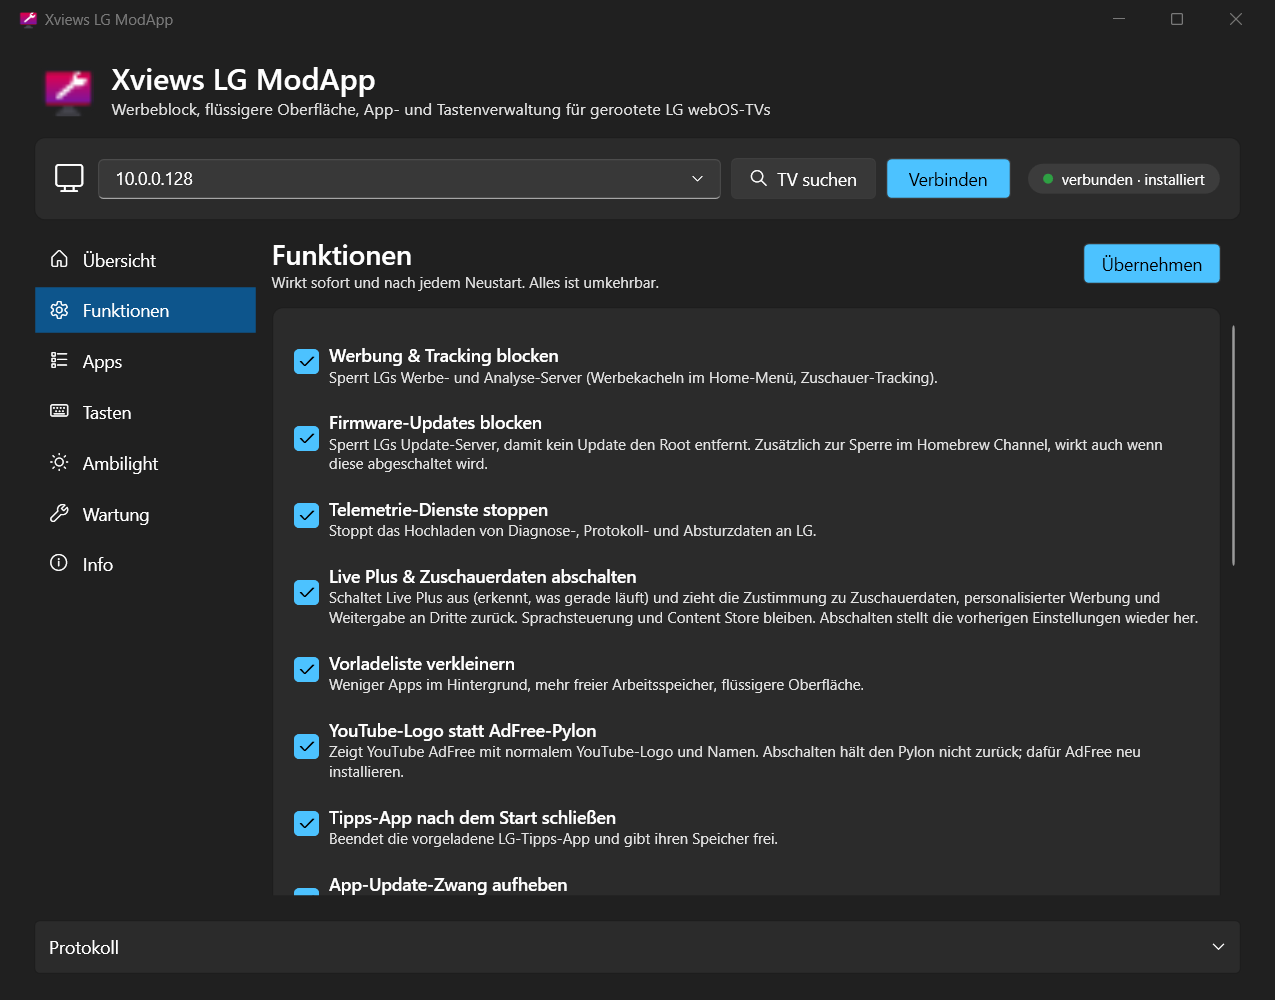
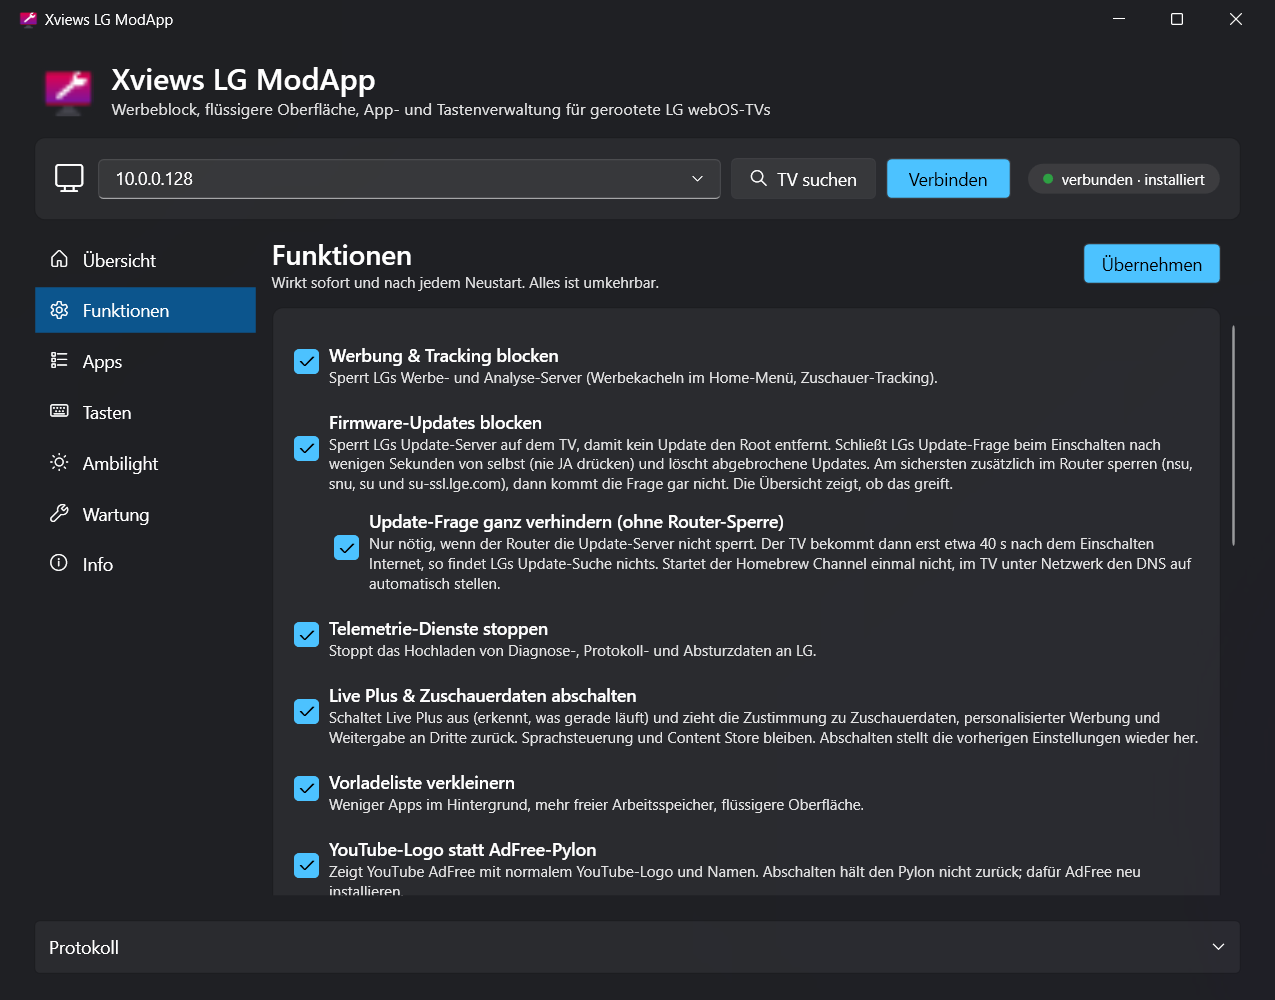
README: Stand 1.4.0 (Update-Frage schließen oder verhindern, DNS zurücksetzen, WLED optimal einstellen)

Changed region(s): [[0.2141, 0.403, 0.9176, 0.899], [0.0306, 0.0, 0.1224, 0.031], [0.5812, 0.806, 0.6118, 0.837]]

diff --git a/README.md b/README.md
@@ -49,7 +49,8 @@ Werbekacheln im Home-Menü, Firmware-Updates, die den Root wieder entfernen, ein
 
 **Schutz & Datenschutz**
 - 🚫 **Werbung & Tracking blocken:** sperrt LGs Werbe- und Analyse-Server, eigene Domains lassen sich ergänzen. Content Store und Apps funktionieren weiter.
-- 🛡 **Firmware-Updates blocken:** Ein Update entfernt den Root. Die Sperre greift zusätzlich zu der im Homebrew Channel, auch wenn diese mal aus ist.
+- 🛡 **Firmware-Updates blocken:** Ein Update entfernt den Root. Die App sperrt jede Update-Adresse, die das Update-Programm des TVs kennt, zusätzlich zur Sperre im Homebrew Channel. Die Übersicht prüft an dieser Sperre vorbei, ob die Update-Server wirklich nicht erreichbar sind, und erkennt auch eine Sperre in der FRITZ!Box.
+- 🙅 **Update-Frage schließt sich von selbst:** Ohne Sperre im Router fragt LG kurz nach dem Einschalten, ob jetzt aktualisiert werden soll. Die App schließt diese Frage nach wenigen Sekunden, bevor jemand JA drückt. Wer keine Router-Sperre hat, kann die Frage auch **ganz verhindern:** Dann bekommt der TV erst etwa 40 Sekunden nach dem Einschalten Internet, und LGs Update-Suche findet nichts.
 - 🕵 **Live Plus & Zuschauerdaten abschalten:** Live Plus erkennt per Bildabgleich, was läuft. Die App schaltet es aus und zieht die Zustimmung zu Zuschauerdaten, personalisierter Werbung und Weitergabe an Dritte zurück. Sprachsteuerung und Content Store bleiben.
 - 📡 **Telemetrie stoppen:** keine Diagnose-, Protokoll- und Absturzdaten mehr an LG.
 - 🔓 **App-Update-Zwang aufheben:** Verlangt LG ein Update, bevor eine App startet, leert die App diese Liste. Wichtig für YouTube AdFree. Der Content Store bleibt voll nutzbar.
@@ -61,7 +62,7 @@ Werbekacheln im Home-Menü, Firmware-Updates, die den Root wieder entfernen, ein
 **Apps**
 - 🗂 **LG-Apps ausblenden,** die sich sonst nicht entfernen lassen (Musik, Browser, Galerie, Anleitung …). Mit Erklärung zu jeder App und einem Vorschlag, was weg kann. Auch Live TV, Programmführer, Screen Share und AirPlay, wer nur über HDMI schaut.
 - 🗑 **Installierte Apps deinstallieren** und ausgeblendete Apps wieder einblenden.
-- ▶ **YouTube-Logo statt AdFree-Pylon:** YouTube AdFree sieht im Menü wieder aus wie YouTube.
+- ▶ **YouTube-Logo statt AdFree-Pylon:** YouTube AdFree sieht im Menü wieder aus wie YouTube. Ist noch das normale YouTube aus dem Store installiert, ersetzt die App es auf Nachfrage durch YouTube AdFree aus dem Homebrew-Katalog.
 
 **Tasten**
 - 🎮 **Fernbedienung neu belegen** (über [LG Input Hook](https://github.com/Simon34545/lginputhook), die App installiert ihn auf Wunsch): Taste drücken, die App erkennt sie. Dann z. B. direkt auf Sky, Xbox oder YouTube schalten, Bildschirm aus mit Ton weiter, Ambilight an/aus, Taste abschalten. Wirkt sofort, ohne Neustart.
@@ -72,6 +73,7 @@ Werbekacheln im Home-Menü, Firmware-Updates, die den Root wieder entfernen, ein
 - 🎨 **Testbilder:** vier Seiten in ihren Farben, ein Lauflicht einmal um das Bild und die Grundfarben. Der Fernseher zeigt dabei sein normales Bild.
 - 🩺 **Fehlersuche je Problem:** Bleibt dunkel, Farben an der falschen Stelle, falsche Farben, ruckelt, flackert oder nur ein Teil leuchtet: Für jedes Problem prüft die App gezielt, was es erklären kann, mit echten Messwerten (Bilder pro Sekunde, Funkverbindung vom TV zum Streifen, Stromgrenze …). Dazu ein kurzer Test am Streifen mit Rückfragen, der z. B. aus deinen Antworten die richtige Farbreihenfolge für WLED ausrechnet.
 - 🎚 **Feinabstimmung:** Helligkeit und Farbstärke live am Streifen, Reaktion und Erkennung schwarzer Balken. Gespeichert wird erst auf Knopfdruck.
+- 🔧 **WLED optimal einstellen:** Schickt Hyperion nur Farbwerte per UDP, stellt die App auf die WLED-Steuerung um. Dann schaltet Hyperion den Streifen selbst ein und mit dem TV wieder aus. Dazu schaltet sie WLAN-Stromsparen am Controller ab, damit nichts ruckelt.
 - 📶 **Assistent für neuen Router oder neues WLAN:** Führt Schritt für Schritt mit Bildern durch, wie Fernseher und LED-Streifen ins neue WLAN kommen. Hat der PC WLAN, erledigt er das für die Streifen selbst: kurz mit „WLED-AP“ verbinden, dein WLAN eintragen, zurück ins eigene Netz. Ist das WLAN am PC aus, schaltet die App es dafür kurz ein. Sonst geht es mit dem Handy. Die App sieht live, wenn alles wieder da ist, lässt bei Bedarf jeden Streifen blinken und fragt, welcher es ist, und trägt die neuen Adressen in Hyperion ein. Vorher wird eine Sicherung angelegt.
 
 <p align="center">
@@ -157,8 +159,9 @@ Werbekacheln im Home-Menü, Firmware-Updates, die den Root wieder entfernen, ein
 <details>
 <summary><b>Was die App auf dem TV macht</b></summary>
 
-- Alle Dateien liegen in `/media/developer/debloat`, gestartet wird beim Hochfahren über `/var/lib/webosbrew/init.d/60-debloat` des Homebrew Channels.
+- Alle Dateien liegen in `/media/developer/debloat`, gestartet wird beim Hochfahren über `/var/lib/webosbrew/init.d/05-debloat` des Homebrew Channels.
 - **Werbeblock und Update-Sperre:** Einträge in einer Arbeitsspeicher-Kopie von `/etc/hosts`. Bewusst nicht geblockt: `ngfts.lge.com` (Bilder im Content Store) und die `*.lgtvsdp.com`-Server (App-Store, App-Start).
+- **Update-Frage:** Die App liest LGs Update-Frage aus dem System-Protokoll und schließt sie über LGs Benachrichtigungsdienst. Mit „Update-Frage ganz verhindern“ steht der DNS des TVs fest auf `127.0.0.1`; der Autostart trägt danach den echten DNS-Server in `/var/lib/misc/resolv.conf` ein. **Wartung → DNS zurücksetzen** stellt den DNS wieder auf automatisch.
 - **Telemetrie:** Die Dienste `remotelogger`, `uploadd` und `crashreportd` werden angehalten.
 - **Live Plus & Zuschauerdaten:** Einstellungen über LGs eigenen Einstellungsdienst. Die vorherigen Werte werden gesichert und beim Abschalten wiederhergestellt.
 - **Apps ausblenden:** Einträge in LGs Liste gelöschter Systemapps. Die App merkt sich, was sie selbst eingetragen hat, und nimmt beim Deinstallieren nur diese Einträge wieder heraus.
@@ -180,7 +183,7 @@ Werbekacheln im Home-Menü, Firmware-Updates, die den Root wieder entfernen, ein
 <details>
 <summary><b>Notfall: die App geht nicht mehr</b></summary>
 
-Per SSH oder Telnet die Datei `/var/lib/webosbrew/init.d/60-debloat` löschen und den TV neu starten. Alternativ im Homebrew Channel die Startskripte abschalten. Ausgeblendete Apps stehen in `/var/preferences/com.webos.applicationManager/deletedSystemAppList.json`, die Vorladeliste setzt `luna-send -n 1 luna://com.webos.service.config/reconfigure '{}'` zurück.
+Per SSH oder Telnet die Datei `/var/lib/webosbrew/init.d/05-debloat` löschen und den TV neu starten. Hat der TV mit „Update-Frage ganz verhindern“ kein Internet, am TV unter *Netzwerk* den DNS auf automatisch stellen. Alternativ im Homebrew Channel die Startskripte abschalten. Ausgeblendete Apps stehen in `/var/preferences/com.webos.applicationManager/deletedSystemAppList.json`, die Vorladeliste setzt `luna-send -n 1 luna://com.webos.service.config/reconfigure '{}'` zurück.
 
 </details>
 
